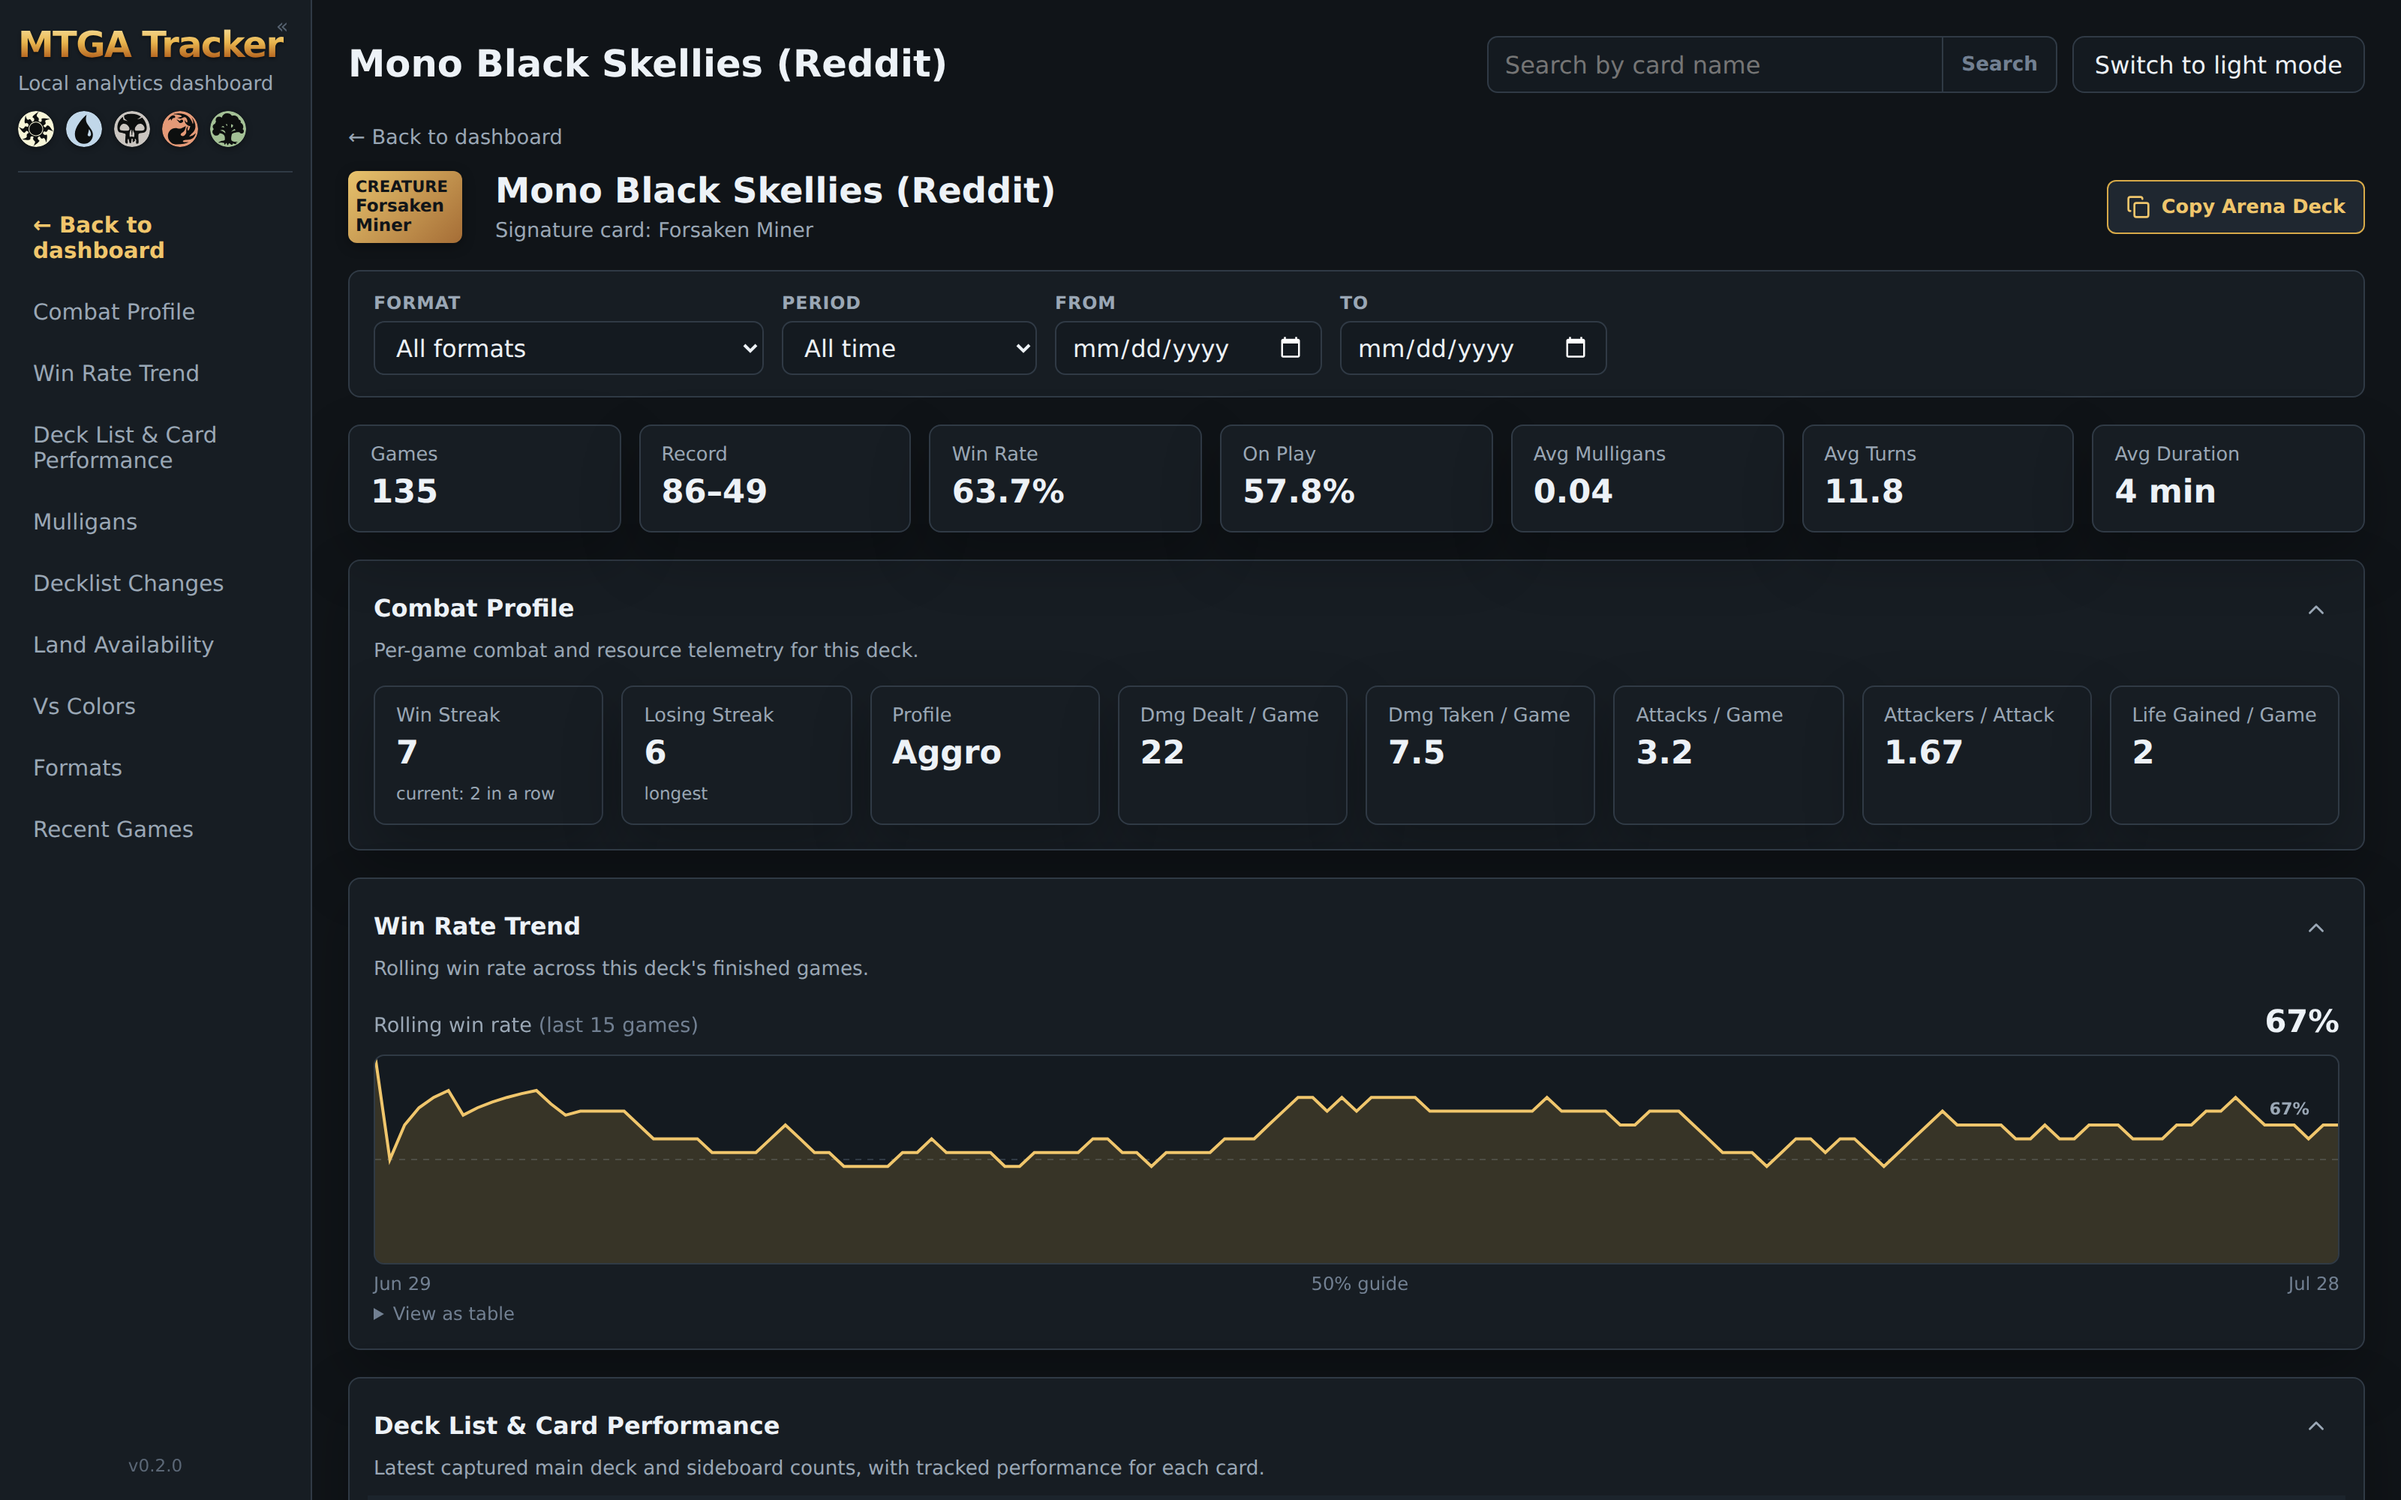
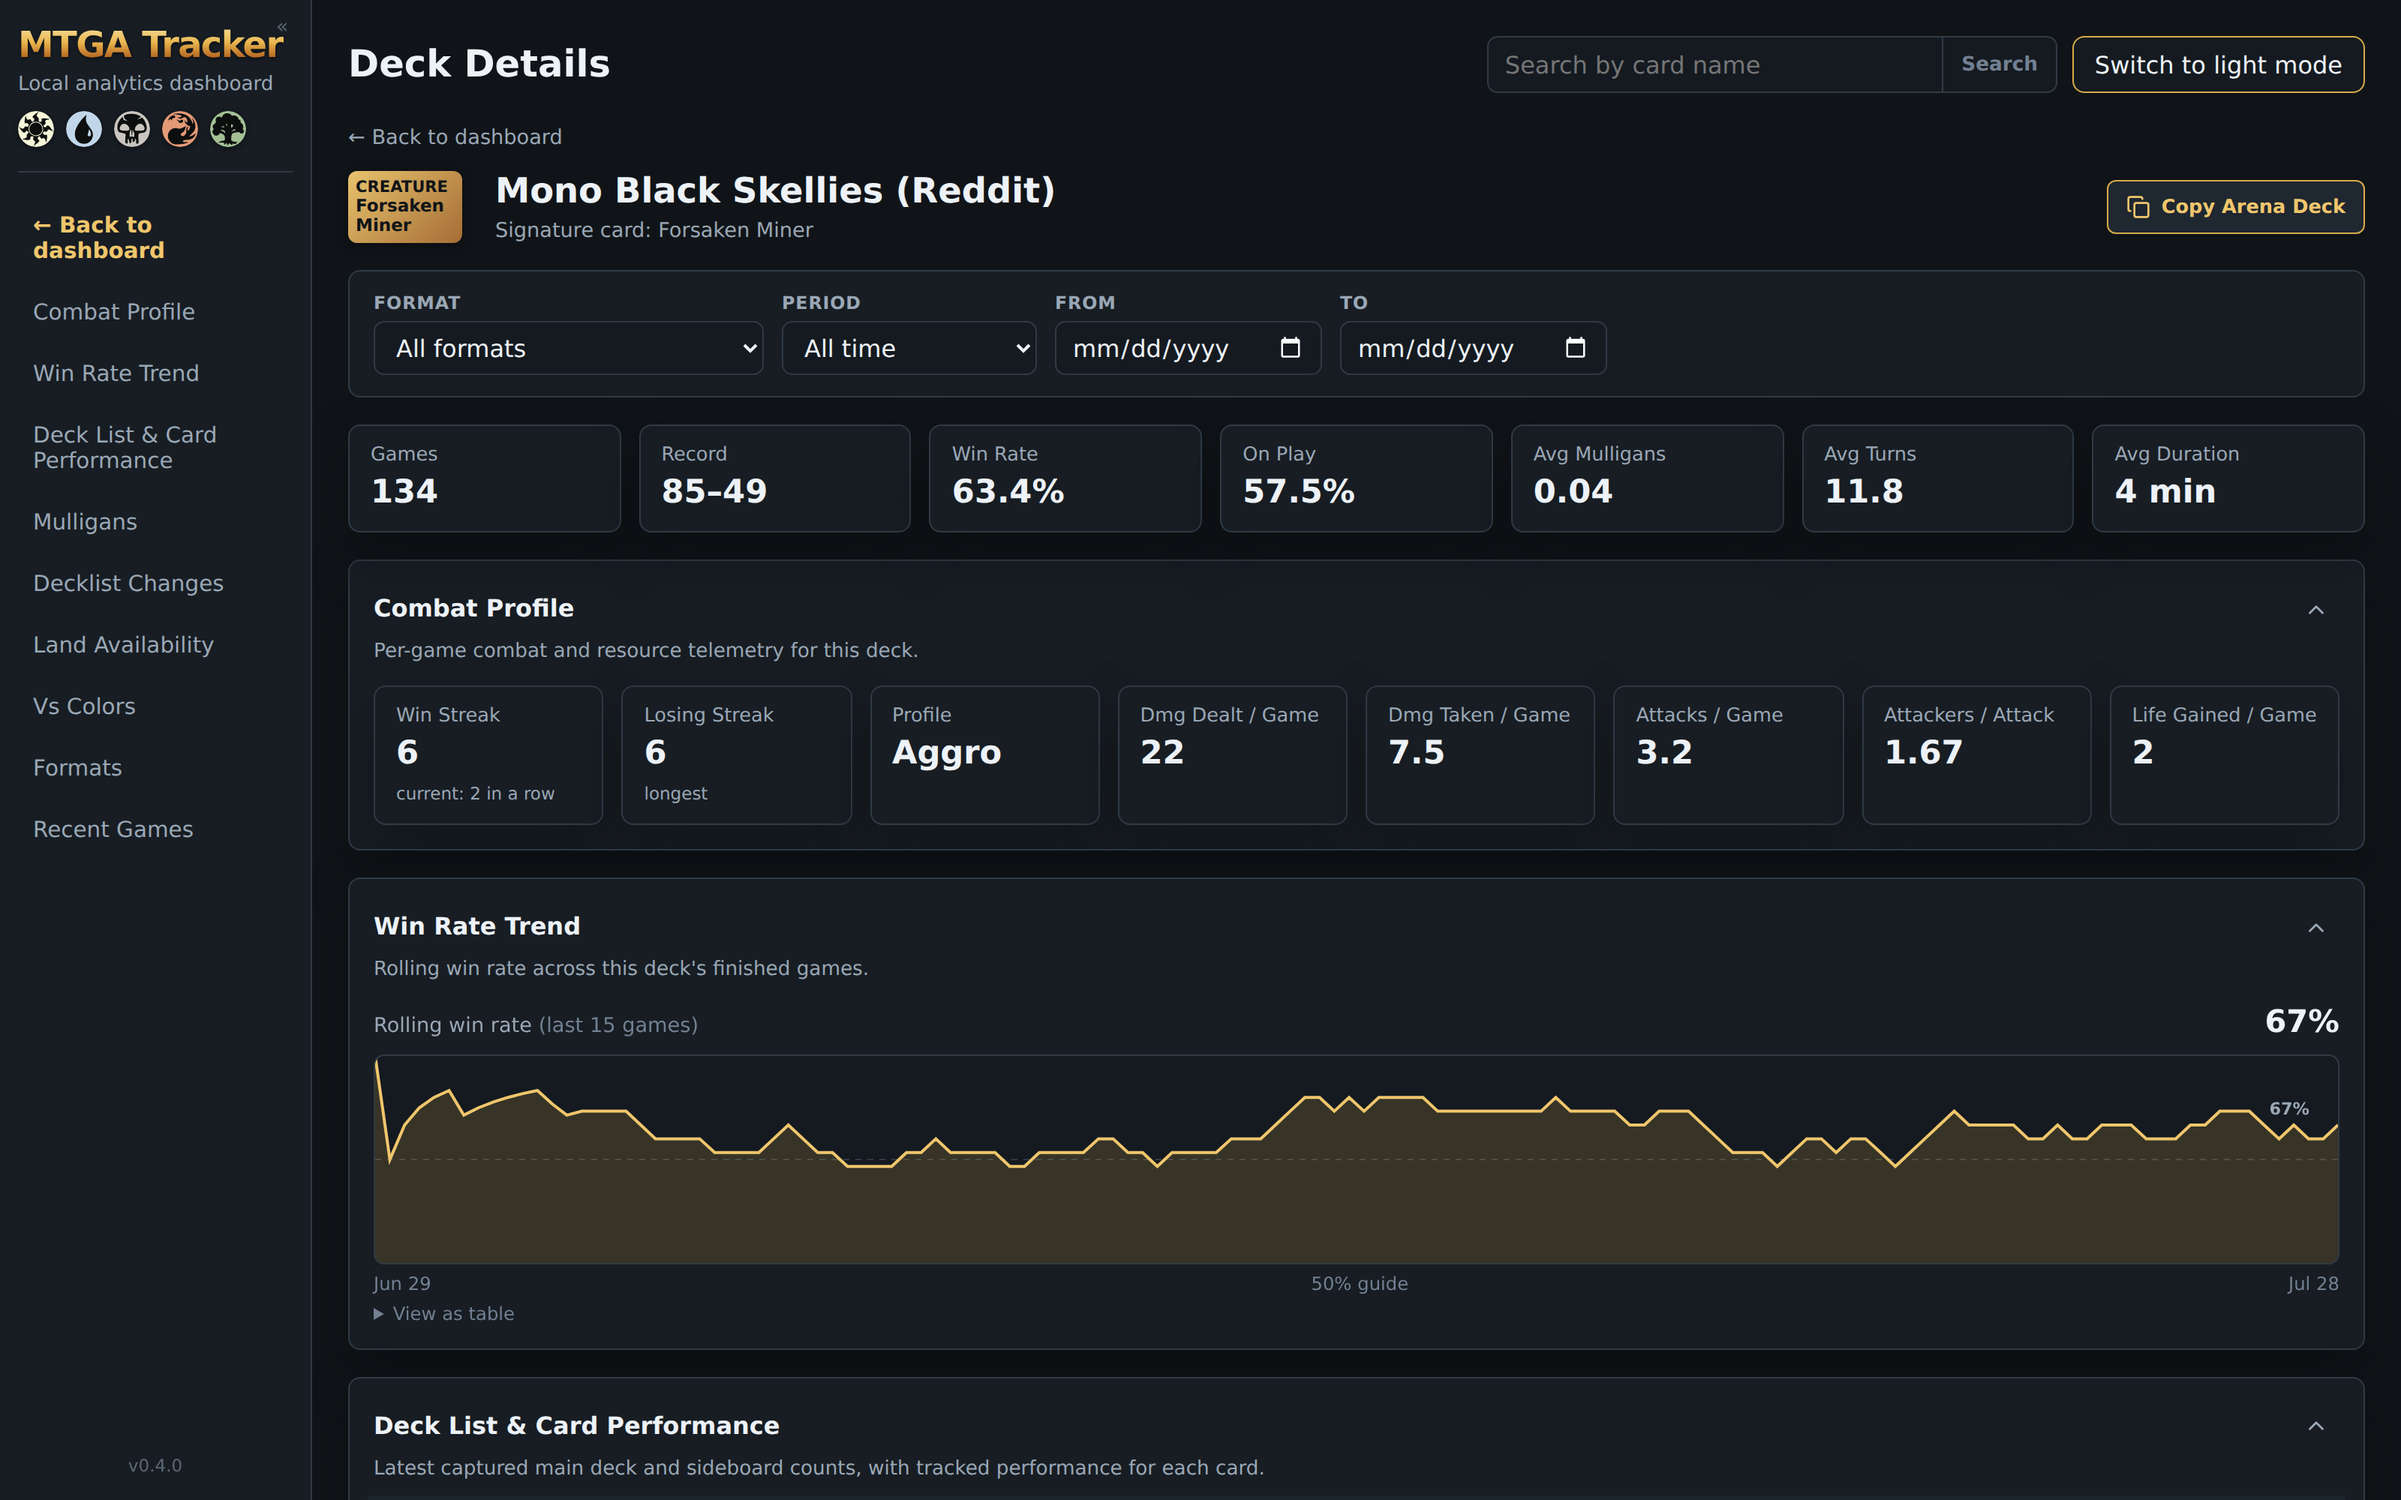
Title the deck page 'Deck Details' instead of repeating the deck name
The top bar and the in-page header both showed the deck name. Also
retakes the README deck-detail screenshot with the fixed heading.

diff --git a/ui/src/App.tsx b/ui/src/App.tsx
@@ -878,7 +878,7 @@ export default function App() {
                   ? opponentNavItems
                   : undefined
         }
-        heading={gamesRoute ? 'All Games' : auditRoute ? 'Database Health' : cardName ? formatCardName(cardName) : (gameRoute ? 'Game Detail' : deckName ?? opponentRoute?.name ?? dashboardTitle)}
+        heading={gamesRoute ? 'All Games' : auditRoute ? 'Database Health' : cardName ? formatCardName(cardName) : gameRoute ? 'Game Detail' : deckName ? 'Deck Details' : (opponentRoute?.name ?? dashboardTitle)}
       >
         {gamesRoute ? (
           <GamesPage
